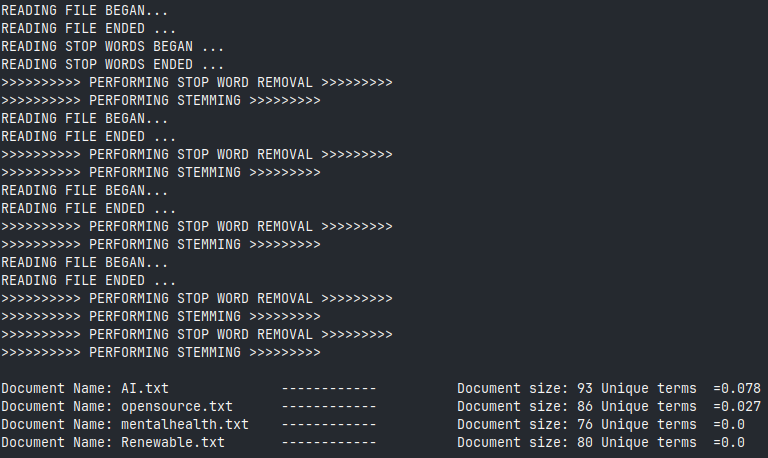
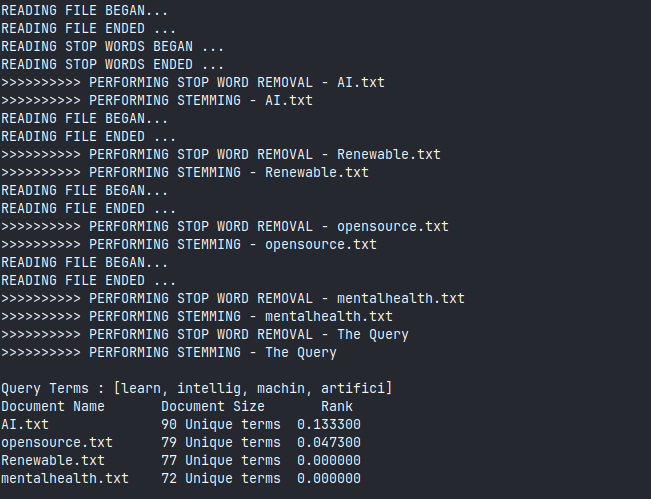
IDF smoothing fixed, console output edited

Changed region(s): [[0.0, 0.0, 0.7373, 0.9782], [0.5837, 0.8253, 1.0, 0.9782]]

diff --git a/src/main/java/com/firomsa/docranker/Document.java b/src/main/java/com/firomsa/docranker/Document.java
@@ -21,43 +21,44 @@ public class Document {
         try {
             reader = new BufferedReader(new FileReader(text));
         } catch (FileNotFoundException e) {
-            System.out.println("ERROR OCCURED WHILE READING FILE: >>>> "+e.getMessage());
+            System.out.println("ERROR OCCURED WHILE READING FILE: >>>> " + e.getMessage());
         }
         try {
             // Performing word tokenization with frequency of terms
             System.out.println("READING FILE BEGAN...");
-            while(reader.ready()){
+            while (reader.ready()) {
                 String[] terms = reader.readLine().split(" ");
                 for (String term : terms) {
                     term = term.toLowerCase();
-                    term = term.replace('.', ' ');
+                    // removing anwanted symbols using regular expressions
+                    term = term.replaceAll("[.\",:)(/\\?!&;]", "");
                     term = term.trim();
-                    if(!term.isEmpty()){
-                        file.put(term, file.getOrDefault(term,0)+1);
+                    if (!term.isEmpty()) {
+                        file.put(term, file.getOrDefault(term, 0) + 1);
                     }
                 }
             }
             System.out.println("READING FILE ENDED ...");
 
         } catch (IOException e) {
-            System.out.println("ERROR OCCURED DURING READING FILES: >>>> "+e.getMessage());
+            System.out.println("ERROR OCCURED DURING READING FILES: >>>> " + e.getMessage());
         }
-        
-        //Removing stop words
+
+        // Removing stop words
         TextProcesser.removeStopWord(this);
         // performing stemming
         TextProcesser.stemText(this);
     }
-    
+
     public Document(String text) {
         this.name = "The Query";
         String[] terms = text.split(" ");
-        
+
         for (int i = 0; i < terms.length; i++) {
             terms[i] = terms[i].toLowerCase();
             terms[i] = terms[i].replace('.', ' ');
             terms[i] = terms[i].trim();
-            file.put(terms[i], file.getOrDefault(terms[i],0)+1);
+            file.put(terms[i], file.getOrDefault(terms[i], 0) + 1);
         }
 
         // removing stop words
@@ -66,34 +67,36 @@ public class Document {
         TextProcesser.stemText(this);
     }
 
-    public Set<String> getTerms(){
+    public Set<String> getTerms() {
         return this.file.keySet();
     }
-    
+
     public int getSize() {
         return this.size;
     }
-    public void setSize(){
+
+    public void setSize() {
         this.size = this.getFile().size();
     }
 
     public String getName() {
         return name;
     }
-    
+
     public Map<String, Integer> getFile() {
         return file;
     }
-    public void removeTerm(String key){
+
+    public void removeTerm(String key) {
         this.file.remove(key);
     }
 
-    public void addTerm(String key, int value){
+    public void addTerm(String key, int value) {
         this.file.put(key, this.file.getOrDefault(key, 1));
     }
 
-    public int getTermFrequency(String term){
-        if(file.get(term)!=null){
+    public int getTermFrequency(String term) {
+        if (file.get(term) != null) {
             return file.get(term);
         }
         return 0;
@@ -101,14 +104,12 @@ public class Document {
 
     @Override
     public String toString() {
-        return ("Document Name: "+"%"+(-20)+"s"+"%"+(-20)+"s  Document size: %d Unique terms  ").formatted(this.getName(),"------------",this.getSize());
+        return ("Document Name: " + "%" + (-20) + "s" + "%" + (-20) + "s  Document size: %d Unique terms  ")
+                .formatted(this.getName(), "------------", this.getSize());
     }
 
     public void clearTerms() {
         this.file.clear();
     }
-    
-    
-    
 
 }

diff --git a/src/main/java/com/firomsa/docranker/TextProcesser.java b/src/main/java/com/firomsa/docranker/TextProcesser.java
@@ -24,43 +24,44 @@ public class TextProcesser {
         try {
             reader = new BufferedReader(new FileReader(stopwordsfile));
         } catch (FileNotFoundException e) {
-            System.out.println("ERROR OCCURED WHILE LOADING STOP WORDS: >>>> "+e.getMessage());
+            System.out.println("ERROR OCCURED WHILE LOADING STOP WORDS: >>>> " + e.getMessage());
         }
         try {
             // Reading stowords
             System.out.println("READING STOP WORDS BEGAN ...");
-            while(reader.ready()){
+            while (reader.ready()) {
                 String term = reader.readLine();
                 stopwords.add(term);
             }
             System.out.println("READING STOP WORDS ENDED ...");
         } catch (IOException e) {
-            System.out.println("ERROR OCCURED DURING READING STOP WORDS: >>>> "+e.getMessage());
+            System.out.println("ERROR OCCURED DURING READING STOP WORDS: >>>> " + e.getMessage());
         }
     }
 
     // a method to perform stemming on terms, uses the Porte Stemming algorithm
-    public static void stemText(Document doc){
-        Set<String> terms = doc.getFile().keySet();
-        System.out.println(">>>>>>>>>> PERFORMING STEMMING >>>>>>>>>");
+    public static void stemText(Document document) {
+        Set<String> terms = document.getFile().keySet();
+        System.out.println(">>>>>>>>>> PERFORMING STEMMING - " + document.getName());
         Map<String, Integer> tempMap = new HashMap<>();
         for (String term : terms) {
-            int value = doc.getFile().get(term);
+            int value = document.getFile().get(term);
             String key = stemmer.stem(term);
             tempMap.put(key, value);
         }
 
-        doc.clearTerms(); 
+        document.clearTerms();
         for (Map.Entry<String, Integer> entry : tempMap.entrySet()) {
-            doc.addTerm(entry.getKey(), entry.getValue());
+            document.addTerm(entry.getKey(), entry.getValue());
         }
     }
-    public static void removeStopWord(Document document){
+
+    public static void removeStopWord(Document document) {
         Set<String> terms = document.getFile().keySet();
-        System.out.println(">>>>>>>>>> PERFORMING STOP WORD REMOVAL >>>>>>>>>");
+        System.out.println(">>>>>>>>>> PERFORMING STOP WORD REMOVAL - " + document.getName());
         Map<String, Integer> tempMap = new HashMap<>();
         for (String term : terms) {
-            if(!stopwords.contains(term)){
+            if (!stopwords.contains(term)) {
                 tempMap.put(term, document.getFile().get(term));
             }
         }

diff --git a/src/main/java/com/firomsa/docranker/TermWeightMatrix.java b/src/main/java/com/firomsa/docranker/TermWeightMatrix.java
@@ -25,7 +25,7 @@ public class TermWeightMatrix {
         // total document number
         this.collectionNumber = this.documents.size();
 
-        // list of terms with document frequency
+        // map of terms with document frequency
         terms = new LinkedHashMap<>();
         for (Document document : this.documents) {
             for (String term : document.getTerms()) {
@@ -37,13 +37,15 @@ public class TermWeightMatrix {
     // calculates the IDF() of a term 
     private double calculateIDF(String term){
         int documentFrequency =  terms.get(term);
-        return Math.round((Math.log10(collectionNumber/documentFrequency))*1000.0)/1000.0;
+        // we add 1 to the IDF after logarithmic calculation to give it a lower bound to avoid 
+        // zero weight just because a word appears in every document
+        return Math.round((Math.log10(collectionNumber/documentFrequency)+1)*10000.0)/10000.0;
     }
 
-    // calculates the TF_IDF of a term give in a given document
+    // calculates the TF_IDF of a term in a given document
     private double calculateTF_IDF(String term, Document doc){
         double tfIdf = doc.getTermFrequency(term)*calculateIDF(term);
-        return Math.round(tfIdf*1000.0)/1000.0;
+        return Math.round(tfIdf*10000.0)/10000.0;
     }
 
     //calculates the cosine similarity of each document with the target document
@@ -69,7 +71,7 @@ public class TermWeightMatrix {
             }
             double docMag = magnitude(document.getValue());
             double dotProduct = dotProduct(targetVector, document.getValue());
-            double answer = Math.round((dotProduct/(targetMag*docMag))*1000.0)/1000.0;
+            double answer = Math.round((dotProduct/(targetMag*docMag))*10000.0)/10000.0;
             result.put(document.getKey(), answer);
         }
         List<Map.Entry<Document,Double>> l = new LinkedList<>(result.entrySet());

diff --git a/src/main/java/com/firomsa/VectorSpaceModel.java b/src/main/java/com/firomsa/VectorSpaceModel.java
@@ -46,6 +46,7 @@ public class VectorSpaceModel extends JFrame {
 
         setDefaultCloseOperation(JFrame.EXIT_ON_CLOSE);
         setVisible(true);
+        // user interface not implemented yet
     }
 
     public static void main(String[] args) {
@@ -53,12 +54,13 @@ public class VectorSpaceModel extends JFrame {
             new VectorSpaceModel();
         } else {
             ArrayList<String> inputs = new ArrayList<>(Arrays.asList(args));
-            if((!inputs.contains("-t"))||(inputs.indexOf("-t")!=inputs.indexOf(inputs.getLast())-1)||(inputs.indexOf("-t")==0)){
+            if ((!inputs.contains("-t")) || (inputs.indexOf("-t") != inputs.indexOf(inputs.getLast()) - 1)
+                    || (inputs.indexOf("-t") == 0)) {
                 System.out.println(">>>>>> WRONG SYNTAX >>>>>>>>");
                 return;
             }
             for (String input : inputs) {
-                if(input.equals("-t")){
+                if (input.equals("-t")) {
                     target = new Document(inputs.getLast());
                     break;
                 }
@@ -67,11 +69,14 @@ public class VectorSpaceModel extends JFrame {
             termWeightMatrix = new TermWeightMatrix(target, documents);
             Map<Document, Double> result = termWeightMatrix.calculateCosineSimilarity();
             System.out.println();
+            System.out.println("Query Terms : " + target.getTerms());
+            System.out.println(
+                    ("%" + (-20) + "s" + "%" + (-20) + "s" + "%s").formatted("Document Name", "Document Size", "Rank"));
             for (Map.Entry<Document, Double> e : result.entrySet()) {
-                System.out.println(e);
+                System.out.println(("%" + (-20) + "s" + "%d Unique terms  " + "%f").formatted(e.getKey().getName(),
+                        e.getKey().getSize(), e.getValue()));
             }
         }
 
     }
-
 }
